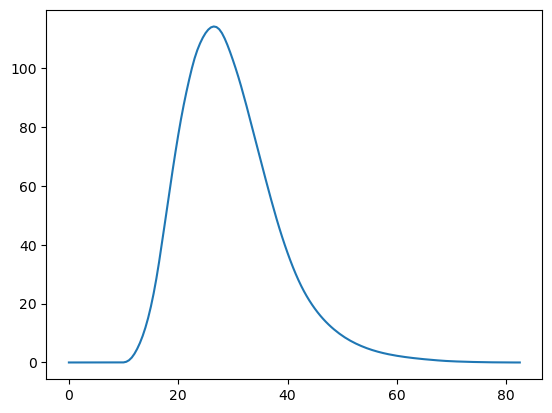
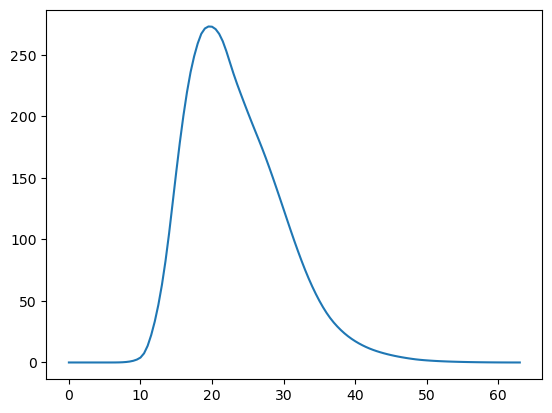
now the unit hydrograph class admits any timestep and uses the S-Curve to fix the UH rain reference duration

diff --git a/src/hydrocivil/unithydrographs.py b/src/hydrocivil/unithydrographs.py
@@ -180,8 +180,8 @@ def SUH_Gray(area, mriverlen, meanslope, tstep,
 
     y = Gray_gamma_param(mriverlen, meanslope)
     tp = Gray_peaktime(mriverlen, meanslope)
-    tstep, tp = tstep_correction(tstep, tp)
-    # tstep = tp/5.5
+    # tstep, tp = tstep_correction(tstep, tp)
+    tstep = tp/5.5
 
     t_shape = np.arange(0, 10+0.05, 0.05)
     q_shape = 25*y**(y+1)*np.exp(-y*t_shape)*(t_shape)**(y)/gamma(y+1)
@@ -337,8 +337,8 @@ def SUH_ArteagaBenitez(area, mriverlen, out2centroidlen, meanslope,
     # Adjust storm duration to the UH timestep
     # tstep, tpR = tstep_correction(tstep, tp)
     tpR = tp
+    # tstep, tp = tstep_correction(tstep, tp)
     tstep = tp/5.5
-    # tpR = tp+(tR-tu)/4
     qpR = coeffs['Cp']*tpR**(coeffs['np'])
     tbR = coeffs['Cb']*tpR**(coeffs['nb'])
 
@@ -370,8 +370,7 @@ def SUH_ArteagaBenitez(area, mriverlen, out2centroidlen, meanslope,
 
 
 class SynthUnitHydro(object):
-    def __init__(self, basin_params, method, timestep=30/60,
-                 interp_kwargs={'kind': 'quadratic'}):
+    def __init__(self, basin_params, method, timestep=30/60):
         """
         Synthetic unit hydrograph (SUH) constructor.
 
@@ -385,10 +384,9 @@ class SynthUnitHydro(object):
         self.method = method
         self.basin_params = pd.Series(basin_params)
         self.timestep = timestep
-        self.interp_kwargs = interp_kwargs
         self.UnitHydro = None
-        self.S_UnitHydro = None
         self.UnitHydroParams = None
+        self.SHydrograph = None
 
     def __repr__(self) -> str:
         """
@@ -397,13 +395,14 @@ class SynthUnitHydro(object):
             str: Some metadata
         """
         text = f'Unit Hydrograph: {self.method}\n'
+        text = text+f'Reference Storm duration: {self.timestep}\n'
         text = text+f'Parameters:\n\n{self.UnitHydroParams}'
         return text
 
-    def UH_cumulative(self):
+    def get_SHydrograph(self):
         """
-        This function computes the S-Unit Hydrograph which is independent
-        of storm duration and can be used for computing the UH of a
+        This function computes the S-Curve or S-Hydrograph which is independent
+        of the storm duration and can be used for computing the UH of a
         different duration.
 
         Returns:
@@ -413,6 +412,46 @@ class SynthUnitHydro(object):
         sums = [uh.shift(i) for i in range(len(uh)+1)]
         S_uh = pd.concat(sums, axis=1).sum(axis=1)
         return S_uh
+
+    def update_duration(self, duration, kind='quadratic', **kwargs):
+        """
+        This function uses de S-Curve to update the unit hydrograph duration
+        and the respective parameters.
+
+        Args:
+            duration (float): New storm duration (equal to time resolution)
+            kind (str, optional): Specifies the kind of interpolation as
+            a string. Defaults to 'quadratic'.
+
+        Returns:
+            self: Updated Class
+        """
+        time, SCurve = self.UnitHydro.index, self.SHydrograph
+        new_time = np.arange(time[0], time[-1]+duration, duration)
+        interp_func = interp1d(time, SCurve.values, fill_value='extrapolate',
+                               kind=kind, **kwargs)
+        SCurve_new = pd.Series(interp_func(new_time), index=new_time)
+        uh_new = (SCurve_new-SCurve_new.shift(1).fillna(0))
+        uh_new = uh_new.where(uh_new > 0).dropna()
+        uh_new.loc[uh_new.index[-1]+duration] = 0
+        uh_new.loc[0] = 0
+        uh_new = uh_new.sort_index()
+
+        # Ensure that the unit hydrograph acummulates a volume of 1mm
+        volume = np.trapz(uh_new, uh_new.index*3600)
+        volume = volume/self.basin_params['area']/1e3  # mm
+        uh_new = uh_new/volume
+
+        params_new = pd.Series([uh_new.max(), uh_new.idxmax(),
+                                uh_new.index[-1], duration],
+                               index=['qpeak', 'tpeak', 'tbase', 'tstep'])
+
+        # Update
+        self.timestep = duration
+        self.UnitHydro = uh_new
+        self.UnitHydroParams = params_new
+        self.SHydrograph = SCurve_new
+        return self
 
     def convolve(self, rainfall, **kwargs):
         """
@@ -440,7 +479,7 @@ class SynthUnitHydro(object):
         hydrograph.index = hydrograph.index*self.timestep
         return hydrograph
 
-    def compute(self, method=None):
+    def compute(self, method=None, interp_kwargs={'kind': 'quadratic'}):
         """
         Trigger calculation of desired unit hydrograph
 
@@ -452,7 +491,7 @@ class SynthUnitHydro(object):
             ValueError: If give the class a wrong UH kind.
 
         Returns:
-            (tuple): Unit hydrograph values and parameters.
+            self: Updated Class
         """
         if type(method) == type(None):
             method = self.method
@@ -460,30 +499,31 @@ class SynthUnitHydro(object):
             params = ['area', 'mriverlen', 'meanslope', 'curvenumber']
             params = self.basin_params[params]
             uh, uh_params = SUH_SCS(tstep=self.timestep,
-                                    interp_kwargs=self.interp_kwargs,
+                                    interp_kwargs=interp_kwargs,
                                     **params)
 
         elif method == 'Arteaga&Benitez':
-            params = ['area', 'mriverlen', 'out2centroidlen', 'meanslope',
-                      'zone']
+            params = ['area', 'mriverlen', 'out2centroidlen',
+                      'meanslope', 'zone']
             params = self.basin_params[params]
             uh, uh_params = SUH_ArteagaBenitez(tstep=self.timestep,
-                                               interp_kwargs=self.interp_kwargs,
+                                               interp_kwargs=interp_kwargs,
                                                **params)
 
         elif method == 'Gray':
             params = ['area', 'mriverlen', 'meanslope']
             params = self.basin_params[params]
             uh, uh_params = SUH_Gray(tstep=self.timestep,
-                                     interp_kwargs=self.interp_kwargs,
+                                     interp_kwargs=interp_kwargs,
                                      **params)
 
         else:
             raise ValueError(f'method="{method}" not valid!')
 
         self.UnitHydro, self.UnitHydroParams = uh, uh_params
-        self.timestep = uh_params.tstep
-        self.S_UnitHydro = self.UH_cumulative()
+        self.SHydrograph = self.get_SHydrograph()
+        self.update_duration(self.timestep)
+
         return self
 
     def plot(self, **kwargs):

diff --git a/README.md b/README.md
@@ -39,7 +39,7 @@ wshed.plot()
 
     <Axes: title={'left': 'Example'}>
 
-![png](image/wshed_plot_outputexample.png)Create an hypothetical storm
+* [ ] ![png](image/wshed_plot_outputexample.png)Create an hypothetical storm
 
 ```python
 # Create a 100 milimeter, 24 hours duration, SCS type I storm with pulses every 30 minutes
